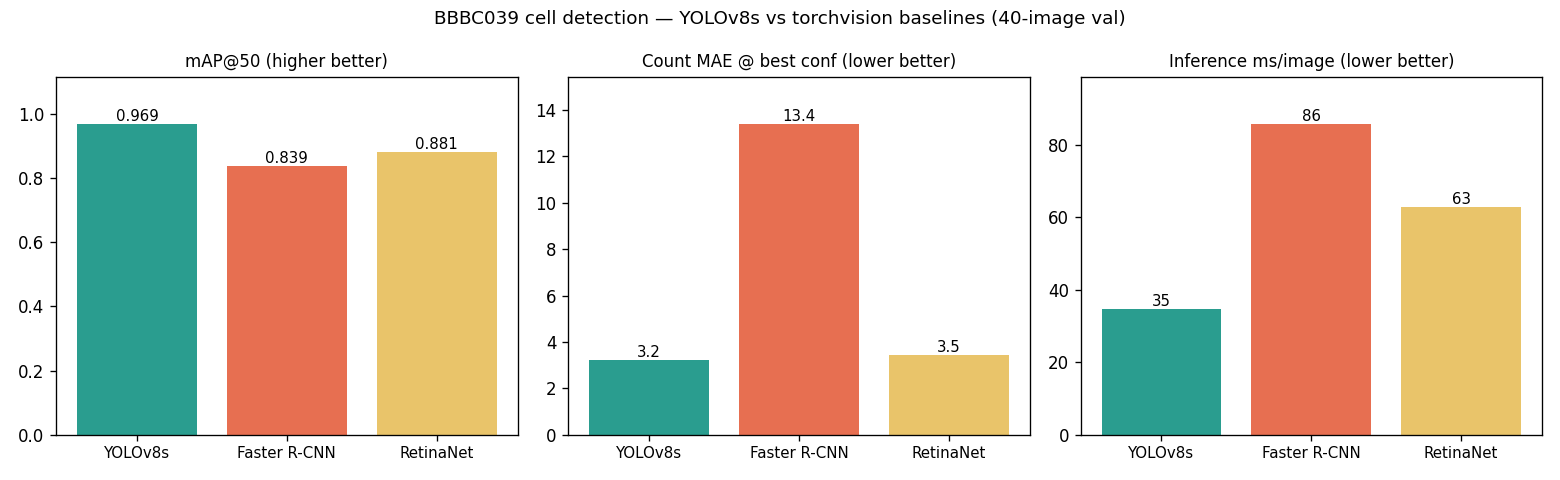
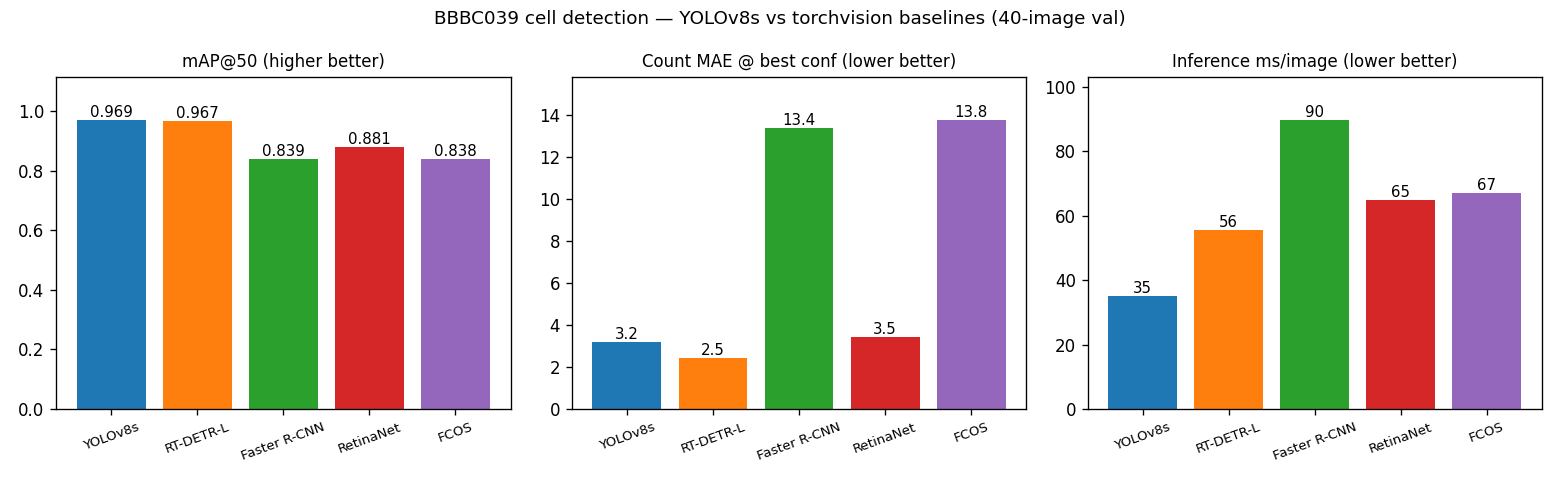
Extend comparison study: add RT-DETR-L and FCOS (5 models total)
- compare/train_rtdetr.py: RT-DETR-L (transformer, NMS-free) @ 960px
- compare/train_tv.py: + FCOS (anchor-free FCN)
- eval_all.py / plot_results.py: handle all 5, fix YOLO/RT-DETR weight globs

Val: RT-DETR-L ties YOLOv8s on mAP@50 (0.967 vs 0.969), wins mAR@500
(0.910 vs 0.786) and count MAE (2.5 vs 3.2) at 1.6x latency. FCOS lands
with the other torchvision nets at ~0.84 mAP@50 -- the ~800px recipe is
the ceiling, not the detector family.

diff --git a/compare/eval_all.py b/compare/eval_all.py
@@ -27,15 +27,23 @@ CONF = 0.5          # matches evaluate.py; counting is measured at this threshol
 DEVICE = torch.device("cuda" if torch.cuda.is_available() else "cpu")
 
 
-def yolo_preds(weights, ds):
-    from ultralytics import YOLO
-    model = YOLO(weights)
+def ultralytics_preds(cls, weights, ds, imgsz):
+    model = cls(weights)
     for i in range(len(ds)):
-        p = ds.imgs[i]
-        r = model.predict(str(p), conf=0.001, iou=0.6, imgsz=1280,
+        r = model.predict(str(ds.imgs[i]), conf=0.001, iou=0.6, imgsz=imgsz,
                           max_det=1000, verbose=False)[0].boxes
         yield {"boxes": r.xyxy.cpu(), "scores": r.conf.cpu(),
                "labels": torch.ones(len(r), dtype=torch.int64)}
+
+
+def yolo_preds(weights, ds):
+    from ultralytics import YOLO
+    return ultralytics_preds(YOLO, weights, ds, 1280)
+
+
+def rtdetr_preds(weights, ds):
+    from ultralytics import RTDETR
+    return ultralytics_preds(RTDETR, weights, ds, 960)
 
 
 def tv_preds(weights, ds, arch):
@@ -101,12 +109,18 @@ def score(pred_iter, ds):
 
 def main():
     ds = YoloDetectionDataset("dataset", "val", train=False)
-    yolo_w = sorted(glob.glob("runs/detect/**/weights/best.pt", recursive=True),
+    yolo_w = sorted((p for p in glob.glob("runs/detect/**/weights/best.pt", recursive=True)
+                     if "rtdetr" not in p and "compare" not in p),
                     key=lambda p: pathlib.Path(p).stat().st_mtime)
     jobs = []
     if yolo_w:
         jobs.append(("YOLOv8s", lambda: yolo_preds(yolo_w[-1], ds)))
-    for arch, label in (("fasterrcnn", "Faster R-CNN"), ("retinanet", "RetinaNet")):
+    rtdetr_w = next(iter(sorted(glob.glob("**/rtdetr*/weights/best.pt", recursive=True),
+                                key=lambda p: pathlib.Path(p).stat().st_mtime, reverse=True)), None)
+    if rtdetr_w:
+        jobs.append(("RT-DETR-L", lambda: rtdetr_preds(rtdetr_w, ds)))
+    for arch, label in (("fasterrcnn", "Faster R-CNN"), ("retinanet", "RetinaNet"),
+                        ("fcos", "FCOS")):
         w = f"compare/runs/{arch}/best.pt"
         if pathlib.Path(w).exists():
             jobs.append((label, (lambda a=arch, ww=w: tv_preds(ww, ds, a))))
@@ -120,9 +134,9 @@ def main():
 
     cols = ["mAP50", "mAP75", "mAR500", "count_MAE@0.5", "best_conf",
             "count_MAE@best", "count_MAPE@best_pct", "ms_per_image"]
-    print(f"\n{'model':<14} " + " ".join(f"{c:>14}" for c in cols))
+    print(f"\n{'model':<14} " + " ".join(f"{c:>18}" for c in cols))
     for label, r in results.items():
-        print(f"{label:<14} " + " ".join(f"{r[c]:>14}" for c in cols))
+        print(f"{label:<14} " + " ".join(f"{r[c]:>18}" for c in cols))
     print("\nsaved -> compare/results.json")
 
 

diff --git a/compare/train_tv.py b/compare/train_tv.py
@@ -19,10 +19,13 @@ from dataset import YoloDetectionDataset, collate_fn  # noqa: E402
 MODELS = {
     "fasterrcnn": ("fasterrcnn_resnet50_fpn_v2", "FasterRCNN_ResNet50_FPN_V2_Weights"),
     "retinanet": ("retinanet_resnet50_fpn_v2", "RetinaNet_ResNet50_FPN_V2_Weights"),
+    "fcos": ("fcos_resnet50_fpn", "FCOS_ResNet50_FPN_Weights"),
 }
 
 
 def build(name):
+    import functools
+
     import torchvision.models.detection as det
     fn_name, w_name = MODELS[name]
     weights = getattr(det, w_name).COCO_V1
@@ -32,15 +35,18 @@ def build(name):
         from torchvision.models.detection.faster_rcnn import FastRCNNPredictor
         in_f = model.roi_heads.box_predictor.cls_score.in_features
         model.roi_heads.box_predictor = FastRCNNPredictor(in_f, 2)
-    else:
-        import functools
-
+    elif name == "retinanet":
         from torchvision.models.detection.retinanet import RetinaNetClassificationHead
         n_anchors = model.head.classification_head.num_anchors
         in_ch = model.backbone.out_channels
         model.head.classification_head = RetinaNetClassificationHead(
             in_ch, n_anchors, 2, norm_layer=functools.partial(torch.nn.GroupNorm, 32)
         )
+    elif name == "fcos":
+        from torchvision.models.detection.fcos import FCOSClassificationHead
+        n_anchors = model.head.classification_head.num_anchors
+        in_ch = model.backbone.out_channels
+        model.head.classification_head = FCOSClassificationHead(in_ch, n_anchors, 2)
     return model
 
 

diff --git a/compare/train_rtdetr.py b/compare/train_rtdetr.py
@@ -1,0 +1,33 @@
+"""Train RT-DETR-L (transformer detector, NMS-free) on the BBBC039 dataset.
+
+    python compare/train_rtdetr.py --epochs 100 --imgsz 960 --batch 4
+
+Same dataset.yaml / split as YOLO. RT-DETR is heavier than yolov8s; imgsz 960
+fits the RTX 5060 8 GB, 1280 OOMs. workers=0 (Windows).
+"""
+import argparse
+
+from ultralytics import RTDETR
+
+
+def main():
+    ap = argparse.ArgumentParser()
+    ap.add_argument("--data", default="dataset/dataset.yaml")
+    ap.add_argument("--epochs", type=int, default=100)
+    ap.add_argument("--imgsz", type=int, default=960)
+    ap.add_argument("--batch", type=int, default=4)
+    ap.add_argument("--device", default="0")
+    args = ap.parse_args()
+
+    model = RTDETR("rtdetr-l.pt")
+    model.train(
+        data=args.data, epochs=args.epochs, imgsz=args.imgsz, batch=args.batch,
+        device=args.device, workers=0, patience=40, cos_lr=True,
+        scale=0.2, close_mosaic=20, mixup=0.0,
+        hsv_h=0.0, hsv_s=0.2, hsv_v=0.3,
+        project="compare/runs", name="rtdetr",
+    )
+
+
+if __name__ == "__main__":
+    main()

diff --git a/compare/plot_results.py b/compare/plot_results.py
@@ -7,7 +7,8 @@ import numpy as np
 
 r = json.loads(pathlib.Path("compare/results.json").read_text())
 models = list(r)
-fig, axes = plt.subplots(1, 3, figsize=(13, 4))
+palette = plt.cm.tab10(np.linspace(0, 1, 10))[:len(models)]
+fig, axes = plt.subplots(1, 3, figsize=(max(13, 2.4 * len(models)), 4))
 
 for ax, (key, title, fmt) in zip(axes, [
     ("mAP50", "mAP@50 (higher better)", "{:.3f}"),
@@ -15,9 +16,9 @@ for ax, (key, title, fmt) in zip(axes, [
     ("ms_per_image", "Inference ms/image (lower better)", "{:.0f}"),
 ]):
     vals = [r[m][key] for m in models]
-    bars = ax.bar(models, vals, color=["#2a9d8f", "#e76f51", "#e9c46a"])
+    bars = ax.bar(models, vals, color=palette)
     ax.set_title(title, fontsize=10)
-    ax.tick_params(axis="x", labelsize=9)
+    ax.tick_params(axis="x", labelsize=8, rotation=20)
     for b, v in zip(bars, vals):
         ax.text(b.get_x() + b.get_width() / 2, v, fmt.format(v),
                 ha="center", va="bottom", fontsize=9)

diff --git a/compare/RESULTS.md b/compare/RESULTS.md
@@ -1,72 +1,85 @@
-# Comparison study — YOLOv8s vs. two-stage / dense baselines
+# Comparison study — YOLOv8s vs. 4 other detectors
 
-Does the YOLO choice actually matter for counting nuclei, or would a standard
-detector do as well? Trained two common alternatives on the **same** BBBC039
-split and scored all three through **one** metric harness.
+Does the YOLO choice matter for counting nuclei, or would another detector do
+as well? Trained four alternatives on the **same** BBBC039 split and scored all
+five through **one** metric harness.
 
 ## Models
 
-| Model | Type | Backbone | Params | Source |
-|---|---|---|---|---|
-| **YOLOv8s** | one-stage, anchor-free | CSPDarknet | 11.1 M | `ultralytics` |
-| **Faster R-CNN** | two-stage (RPN + RoI head) | ResNet50-FPN v2 | 43.3 M | `torchvision` |
-| **RetinaNet** | one-stage, dense, focal loss | ResNet50-FPN v2 | 36.4 M | `torchvision` |
+| Model | Type | Backbone | Params | Train res | Source |
+|---|---|---|---|---|---|
+| **YOLOv8s** | one-stage, anchor-free | CSPDarknet | 11 M | 1280 | `ultralytics` |
+| **RT-DETR-L** | transformer, NMS-free set prediction | HGNetv2 | 32 M | 960 | `ultralytics` |
+| **RetinaNet** | one-stage, dense, focal loss | ResNet50-FPN v2 | 36 M | ~800 | `torchvision` |
+| **FCOS** | one-stage, anchor-free, FCN | ResNet50-FPN | 32 M | ~800 | `torchvision` |
+| **Faster R-CNN** | two-stage (RPN + RoI head) | ResNet50-FPN v2 | 43 M | ~800 | `torchvision` |
 
-All three: COCO-pretrained, head reset to 1 class, same 160/40 train/val split,
-horizontal-flip aug only, trained on this RTX 5060 (8 GB).
-YOLO: 1280 px, ~100 epochs (best @43). torchvision: native multi-scale
-(~800 px), SGD 5e-3 cosine, 40 epochs (Faster R-CNN best @7, RetinaNet @14 —
-both plateaued almost immediately).
+All COCO-pretrained, head reset to 1 class, same 160/40 split, hflip aug,
+trained on this RTX 5060 (8 GB). YOLO ~100 ep, RT-DETR 47 ep (converged),
+torchvision 40 ep each (all plateaued by ~10).
 
 ## Results (40-image val split, one torchmetrics harness)
 
-| Model | mAP@50 | mAP@75 | mAR@500 | count MAE @conf 0.5 | best conf | count MAE @best | count MAPE @best | ms/img |
+| Model | mAP@50 | mAP@75 | mAR@500 | count MAE @0.5 | best conf | **count MAE @best** | count MAPE @best | ms/img |
 |---|---|---|---|---|---|---|---|---|
-| **YOLOv8s** | **0.969** | **0.931** | 0.786 | **3.2** | 0.50 | **3.2** | **3.2 %** | **35** |
-| RetinaNet | 0.881 | 0.861 | **0.822** | 17.9 | 0.25 | 3.5 | 3.5 % | 63 |
-| Faster R-CNN | 0.839 | 0.837 | 0.785 | 14.8 | 0.80 | 13.4 | 11.3 % | 86 |
+| **YOLOv8s** | **0.969** | 0.931 | 0.786 | 3.2 | 0.50 | **3.2** | 3.2 % | **35** |
+| **RT-DETR-L** | 0.967 | **0.935** | **0.910** | 12.5 | 0.70 | **2.5** | **2.5 %** | 55 |
+| RetinaNet | 0.881 | 0.861 | 0.822 | 17.9 | 0.25 | 3.5 | 3.5 % | 65 |
+| FCOS | 0.838 | 0.837 | 0.796 | 13.8 | 0.50 | 13.8 | 12.0 % | 67 |
+| Faster R-CNN | 0.839 | 0.837 | 0.785 | 14.8 | 0.80 | 13.4 | 11.3 % | 90 |
 
 ![comparison](comparison.png)
 
-mAP@50:95 is omitted: torchmetrics caps that metric at 100 detections/image
+mAP@50:95 is omitted — torchmetrics caps that metric at 100 detections/image
 internally, which unfairly penalises dense predictors on fields of up to ~165
 nuclei. mAP@50 / mAP@75 / mAR use a 500-detection cap.
 
 ## Findings
 
-1. **YOLOv8s wins on detection quality outright** — mAP@50 0.969 vs 0.881 / 0.839,
-   and the gap widens at mAP@75 (tighter boxes). Training at 1280 px is the main
-   reason: the torchvision models run at ~800 px where a 20 px nucleus is ~12 px.
+1. **The field splits cleanly in two, and the line is the training recipe —
+   not one-stage vs. two-stage vs. transformer.**
+   - **YOLOv8s and RT-DETR-L** (modern, higher-res, strong aug): mAP@50 ~0.97.
+   - **The three ResNet50-FPN torchvision nets** (Faster R-CNN, RetinaNet, FCOS),
+     all at ~800 px: mAP@50 0.84–0.88, ~10 points back, regardless of detector
+     family. A 20 px nucleus is ~12 px at that resolution.
 
-2. **Counting accuracy is confidence-threshold-bound, per model.** At a fixed
-   conf 0.5, RetinaNet looks terrible (MAE 17.9, misses 18 % of nuclei) — but
-   that is calibration, not capability. Focal-loss training pushes its scores
-   low; at **conf 0.25** its count MAE drops to **3.5**, matching YOLO. Anyone
-   swapping detectors must re-sweep the threshold (as done for YOLO in the main
-   README).
+2. **RT-DETR-L matches YOLOv8s and beats it where it counts.** Despite training
+   at 960 px vs 1280, it ties on mAP@50 (0.967 vs 0.969), **wins mAP@75** (0.935,
+   tighter boxes), **wins recall by a wide margin** (mAR@500 0.910 vs 0.786), and
+   gives the **best counting result of all** — MAE 2.5 at conf 0.7. The NMS-free
+   set prediction is the reason recall is so high: no true nucleus gets
+   suppressed by an overlapping neighbour's box. Cost: 1.6× YOLO's latency
+   (55 vs 35 ms).
 
-3. **Faster R-CNN is dominated on every axis** — worst mAP, worst counting even
-   after tuning (MAE 13.4), lowest recall (mAR 0.785), slowest (86 ms). The
-   two-stage RPN bottlenecks recall on crowded fields; proposals saturate before
-   every nucleus is covered.
+3. **Counting accuracy is confidence-threshold-bound, per model.** At a fixed
+   conf 0.5 the picture is misleading: RT-DETR looks bad (MAE 12.5), RetinaNet
+   worse (17.9). Both are calibration, not capability — RT-DETR's optimum is
+   0.70, RetinaNet's is 0.25 (focal loss pushes its scores low). After a
+   per-model sweep, RT-DETR (2.5), YOLO (3.2) and RetinaNet (3.5) all land in
+   the same band. **Anyone swapping detectors must re-sweep the threshold.**
 
-4. **Speed:** YOLOv8s 35 ms < RetinaNet 63 ms < Faster R-CNN 86 ms per image
-   (RTX 5060). YOLO's number includes image load from disk; the torchvision
-   models were handed pre-loaded tensors, so YOLO's real margin is larger.
+4. **Faster R-CNN and FCOS are dominated** — worst mAP, worst counting even
+   after tuning (MAE ~13–14), lowest recall. Faster R-CNN's RPN bottlenecks
+   proposals on crowded fields; FCOS lands in the same place from the opposite
+   (anchor-free FCN) direction. Neither offers anything here.
 
-**Conclusion:** for this task YOLOv8s is the right default — best detection,
-best out-of-the-box counting, fastest. RetinaNet is a viable second choice *if*
-you tune its confidence threshold and can afford 2× the latency. Faster R-CNN
-offers nothing here.
+**Conclusion.** For a counting deployment: **YOLOv8s** if latency matters (best
+speed, counting essentially tied). **RT-DETR-L** if accuracy is paramount and
+you can afford 1.6× the latency — highest recall, best counting, tightest
+boxes, and you can drop NMS. The torchvision CNNs would need to be retrained at
+1280 px to be competitive; at default resolution they are not.
 
 ## Reproduce
 
 ```bash
 python compare/train_tv.py --model fasterrcnn --epochs 40
 python compare/train_tv.py --model retinanet  --epochs 40
-python compare/eval_all.py        # scores YOLO + both, writes results.json
+python compare/train_tv.py --model fcos       --epochs 40
+python compare/train_rtdetr.py --epochs 100 --imgsz 960   # converges ~ep 47
+python compare/eval_all.py        # scores all 5, writes results.json
 python compare/plot_results.py    # comparison.png
 ```
 
-Weights (`compare/runs/*/best.pt`) are gitignored — retrain with the above
-(~20 min each on an RTX 5060).
+Weights are gitignored — retrain with the above. RT-DETR weights land under
+`runs/detect/compare/runs/rtdetr/` (ultralytics path quirk); `eval_all.py`
+globs for them.

diff --git a/README.md b/README.md
@@ -39,16 +39,22 @@ More predictions: [showcase/val_predictions_2.jpg](showcase/val_predictions_2.jp
 
 ### vs. other detectors
 
-Faster R-CNN and RetinaNet (torchvision, ResNet50-FPN) trained on the same split:
+RT-DETR-L, RetinaNet, FCOS and Faster R-CNN trained on the same split, scored
+through one torchmetrics harness:
 
-| Model | mAP@50 | count MAE (tuned) | ms/img |
-|---|---|---|---|
-| **YOLOv8s** | **0.969** | **3.2** | **35** |
-| RetinaNet | 0.881 | 3.5 | 63 |
-| Faster R-CNN | 0.839 | 13.4 | 86 |
+| Model | mAP@50 | mAR@500 | count MAE (tuned) | ms/img |
+|---|---|---|---|---|
+| **YOLOv8s** | **0.969** | 0.786 | 3.2 | **35** |
+| RT-DETR-L | 0.967 | **0.910** | **2.5** | 55 |
+| RetinaNet | 0.881 | 0.822 | 3.5 | 65 |
+| FCOS | 0.838 | 0.796 | 13.8 | 67 |
+| Faster R-CNN | 0.839 | 0.785 | 13.4 | 90 |
 
-(mAP@50 here uses a shared torchmetrics harness, hence 0.969 vs the 0.979 from
-ultralytics' own validator above.) Full study: [compare/RESULTS.md](compare/RESULTS.md).
+RT-DETR-L matches YOLO on mAP@50 and beats it on recall and counting (NMS-free
+set prediction — no nucleus suppressed by a neighbour), at 1.6× the latency.
+The three ResNet50-FPN torchvision nets all plateau ~10 pts back — they run at
+~800 px where a 20 px nucleus is ~12 px. Full study:
+[compare/RESULTS.md](compare/RESULTS.md).
 
 ![model comparison](showcase/model_comparison.png)
 
